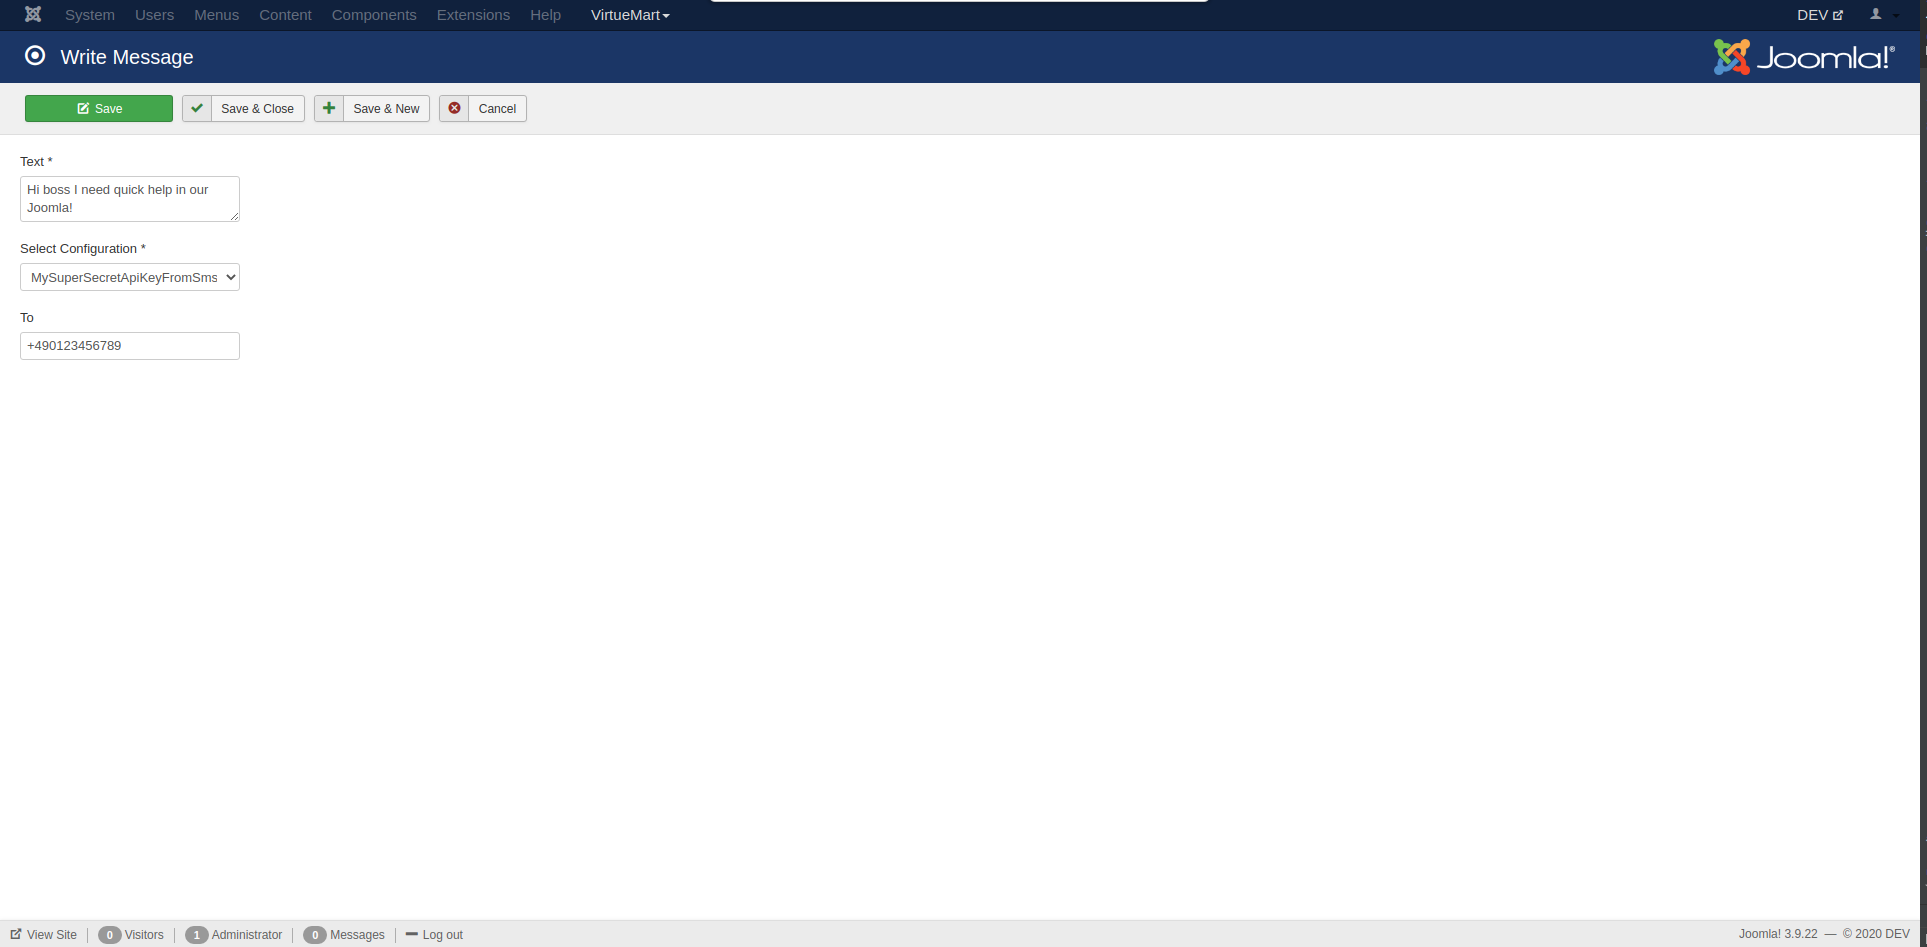
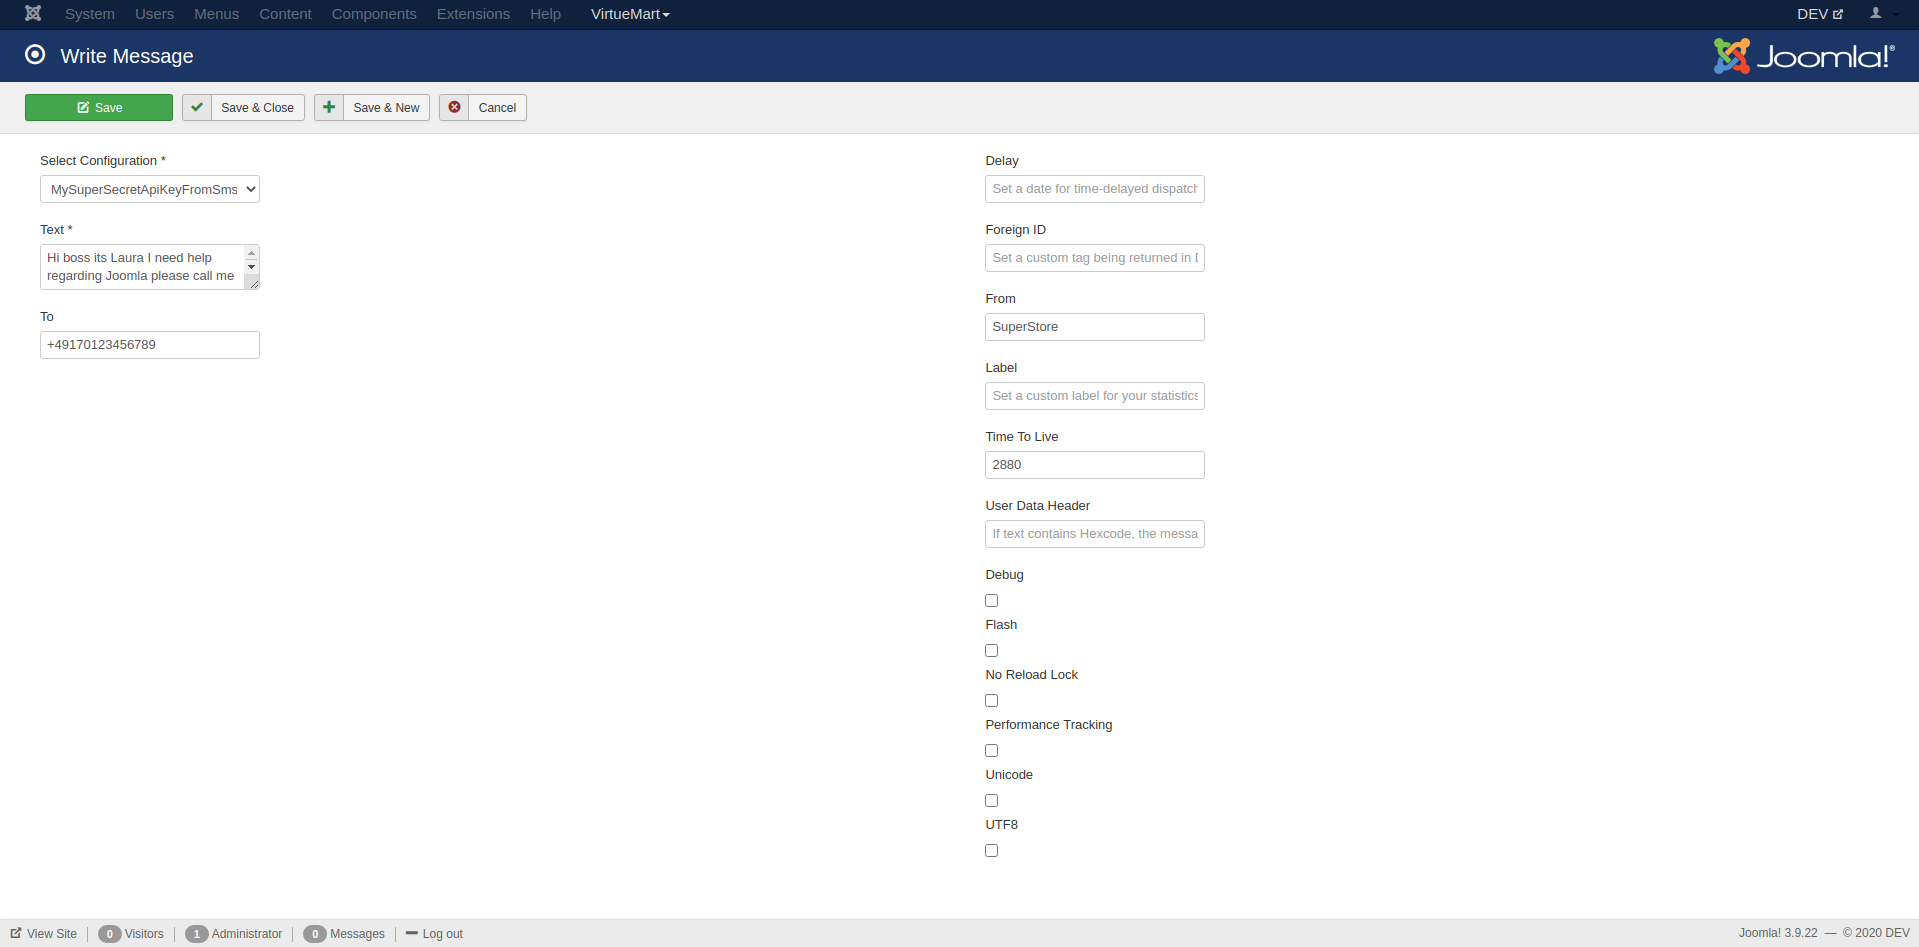
add remaining sms options

diff --git a/src/models/message.php b/src/models/message.php
@@ -62,7 +62,8 @@ class Sms77apiModelMessage extends AdminModel {
      */
     protected function loadFormData() {
         // Check the session for previously entered form data.
-        $data = Factory::getApplication()->getUserState('com_sms77api.edit.message.data', []);
+        $data = Factory::getApplication()
+            ->getUserState('com_sms77api.edit.message.data', []);
 
         if (empty($data)) {
             $data = $this->getItem();
@@ -71,38 +72,60 @@ class Sms77apiModelMessage extends AdminModel {
         return $data;
     }
 
-    private function _toNullableId($key, array $data) {
-        return array_key_exists($key, $data) && '' !== $data[$key]
-            ? (int)$data[$key] : null;
-    }
+    private function _handleVirtueMart(array &$to, array &$modelCfg, array &$data) {
+        $addRecipient = static function ($user) use (&$to) {
+            if (!is_object($user)) {
+                return;
+            }
 
-    private function _getShoppingGroupUsers($shopperGroupId) {
-        $sql = 'SELECT `virtuemart_user_id` FROM `#__virtuemart_vmuser_shoppergroups`';
-        $sql .= " WHERE `virtuemart_shoppergroup_id` = {$shopperGroupId}";
-        return array_keys(JFactory::getDbo()->setQuery($sql)->loadRowList(0));
-    }
+            //phone_2 is mobile in the frontend
+            $phone = utf8_strlen($user->phone_2) ? $user->phone_2 : $user->phone_1;
 
-    private function _toPhone($user, &$to) {
-        if (!is_object($user)) {
-            return null;
+            if (utf8_strlen($phone)) {
+                $to[] = $phone;
+            }
+        };
+
+        $getDriver = static function ($countryId, $sql) {
+            if ($countryId) {
+                $sql .= " AND virtuemart_country_id = $countryId";
+            }
+
+            return JFactory::getDbo()->setQuery($countryId, $sql);
+        };
+
+        $pickProperty = static function ($key) use (&$data) {
+            $value = array_key_exists($key, $data) && '' !== $data[$key]
+                ? (int)$data[$key] : null;
+
+            unset($data[$key]);
+
+            return $value;
+        };
+
+        if (!ConfigurationHelper::hasVirtueMart()) {
+            return;
         }
 
-        //phone_2 is mobile in the frontend
-        $phone = utf8_strlen($user->phone_2) ? $user->phone_2 : $user->phone_1;
+        $modelCfg['countryId'] = $pickProperty('country_id');
+        $modelCfg['shopperGroupId'] = $pickProperty('shopper_group_id');
 
-        if (utf8_strlen($phone)) {
-            $to[] = $phone;
+        $sql = 'SELECT * FROM #__virtuemart_userinfos';
+        $sql .= ' WHERE address_type = "BT" AND locked_by = 0';
+        if ($modelCfg['shopperGroupId']) {
+            $sql2 = 'SELECT virtuemart_user_id FROM #__virtuemart_vmuser_shoppergroups ';
+            $sql2 .= 'WHERE virtuemart_shoppergroup_id = ' . $modelCfg['shopperGroupId'];
+            foreach (array_keys(JFactory::getDbo()->setQuery($sql2)->loadRowList(0))
+                     as $userId) {
+                $sql .= " AND virtuemart_user_id = $userId";
+                $addRecipient($getDriver($modelCfg['countryId'], $sql)->loadObject());
+            }
+        } elseif ($modelCfg['countryId']) {
+            foreach ($getDriver($modelCfg['countryId'], $sql)->loadObjectList()
+                     as $user) {
+                $addRecipient($user);
+            }
         }
-
-        return $phone;
-    }
-
-    private function _whereCountryId($countryId, $sql) {
-        if ($countryId) {
-            $sql .= " AND virtuemart_country_id = $countryId";
-        }
-
-        return $sql;
     }
 
     /**
@@ -113,28 +136,12 @@ class Sms77apiModelMessage extends AdminModel {
      * @since   1.0.0
      */
     public function save($data) {
-        $text = $data['text'];
         $to = array_key_exists('to', $data) ? [$data['to']] : [];
         $apiKey = $this->configHelper->byId($data['configuration'])->api_key;
-        $shopperGroupId = $this->_toNullableId('shopper_group_id', $data);
-        $countryId = $this->_toNullableId('country_id', $data);
-        unset($data['configuration'], $data['shopper_group_id'], $data['country_id']);
-        $sql = 'SELECT * FROM #__virtuemart_userinfos WHERE address_type = "BT" AND locked_by = 0';
+        $saveConfig = ['apiKey' => $apiKey,];
+        unset($data['configuration']);
 
-        if ($shopperGroupId) {
-            foreach ($this->_getShoppingGroupUsers($shopperGroupId) as $userId) {
-                $sql .= " AND virtuemart_user_id = $userId";
-                $sql = $this->_whereCountryId($countryId, $sql);
-                $this->_toPhone(JFactory::getDbo()->setQuery($sql)->loadObject(), $to);
-            }
-        } elseif ($countryId) {
-            foreach (
-                JFactory::getDbo()
-                    ->setQuery($this->_whereCountryId($countryId, $sql))->loadObjectList()
-                as $user) {
-                $this->_toPhone($user, $to);
-            }
-        }
+        $this->_handleVirtueMart($to, $saveConfig, $data);
 
         $to = implode(',', $to);
 
@@ -145,13 +152,9 @@ class Sms77apiModelMessage extends AdminModel {
         }
 
         return parent::save([
-            'config' => json_encode([
-                'apiKey' => $apiKey,
-                'countryId' => $countryId,
-                'shopperGroupId' => $shopperGroupId,
-            ]),
+            'config' => json_encode($saveConfig),
             'response' => json_encode((new Sms77apiHelper($apiKey))
-                ->sms(array_merge($data, compact('text', 'to')))),
+                ->sms(array_merge($data, ['to' => $to]))),
         ]);
     }
 }

diff --git a/src/views/message/tmpl/edit.php b/src/views/message/tmpl/edit.php
@@ -41,49 +41,79 @@ Factory::getDocument()->addScriptDeclaration(<<<JS
         });
 JS
 );
-$hasVirtueMart = JComponentHelper::isEnabled('com_virtuemart');
-$fields = ['text', 'configuration', 'to', 'from', 'foreign_id', 'label'];
-if ($hasVirtueMart) {
-    $fields[] = 'shopper_group_id';
-
-    if (!class_exists('VmConfig')) {
-        require JPATH_ADMINISTRATOR . '/components/com_virtuemart/helpers/config.php';
-    }
-
-    VmConfig::loadConfig();
-
-    $lang = JFactory::getLanguage();
-    $lang->load('com_virtuemart', JPATH_ADMINISTRATOR . '/components/com_virtuemart');
-    $lang->load('com_virtuemart_shoppers', JPATH_ROOT . '/components/com_virtuemart');
-}
 ?>
-<form action="<?php echo Route::_("index.php?option=com_sms77api&layout=edit&id={$this->message->id}") ?>"
-      method="post" name="adminForm" enctype="multipart/form-data" id="adminForm"
-      class="form-validate">
+<form
+        action="<?php echo Route::_("index.php?option=com_sms77api&layout=edit&id={$this->message->id}") ?>"
+        class="form-validate"
+        enctype="multipart/form-data"
+        id="adminForm"
+        method="post"
+        name="adminForm"
+>
     <input type="hidden" name="task" value=""/>
 
-    <?php
-    foreach ($fields as $field) {
-        echo $this->form->renderField($field);
-    }
+    <div class="container-fluid">
+        <div class="row-fluid">
+            <div class="span6">
+                <?php echo $this->form->renderField('configuration')
+                    . $this->form->renderField('text')
+                    . $this->form->renderField('to');
 
-    if ($hasVirtueMart) {
-        ?>
-        <div class="control-group">
-            <div class="control-label">
-                <label id="jform_country_id-lbl" for="jform_country_id">
-                    <?php echo VmText::_('COM_VIRTUEMART_COUNTRY') ?></label>
+                if (JComponentHelper::isEnabled('com_virtuemart')) {
+                    if (!class_exists('VmConfig')) {
+                        require JPATH_ADMINISTRATOR
+                            . '/components/com_virtuemart/helpers/config.php';
+                    }
+
+                    VmConfig::loadConfig();
+
+                    $lang = JFactory::getLanguage();
+                    $lang->load('com_virtuemart',
+                        JPATH_ADMINISTRATOR . '/components/com_virtuemart');
+                    $lang->load('com_virtuemart_shoppers',
+                        JPATH_ROOT . '/components/com_virtuemart');
+
+                    echo $this->form->renderField('shopper_group_id');
+                    ?>
+                    <div class="control-group">
+                        <div class="control-label">
+                            <label id="jform_country_id-lbl" for="jform_country_id">
+                                <?php echo VmText::_('COM_VIRTUEMART_COUNTRY') ?>
+                            </label>
+                        </div>
+
+                        <div class="controls">
+                            <?php echo ShopFunctionsF::renderCountryList(
+                                0,
+                                false, [],
+                                '',
+                                0,
+                                'jform_country_id',
+                                'jform[country_id]') ?>
+                        </div>
+                    </div>
+                    <?php
+                }
+                echo $this->form->getInput('id') . HTMLHelper::_('form.token');
+                ?>
             </div>
 
-            <div class="controls">
-                <?php echo ShopFunctionsF::renderCountryList(
-                    0, false, [], '', 0, 'jform_country_id', 'jform[country_id]') ?>
+            <div class="span6">
+                <?php echo $this->form->renderField('delay')
+                    . $this->form->renderField('foreign_id')
+                    . $this->form->renderField('from')
+                    . $this->form->renderField('label')
+                    . $this->form->renderField('ttl')
+                    . $this->form->renderField('udh')
+
+                    . $this->form->renderField('debug')
+                    . $this->form->renderField('flash')
+                    . $this->form->renderField('no_reload')
+                    . $this->form->renderField('performance_tracking')
+                    . $this->form->renderField('unicode')
+                    . $this->form->renderField('utf8');
+                ?>
             </div>
         </div>
-        <?php
-    }
-
-    echo $this->form->getInput('id');
-    echo HTMLHelper::_('form.token');
-    ?>
+    </div>
 </form>

diff --git a/src/helpers/configuration.php b/src/helpers/configuration.php
@@ -27,7 +27,9 @@ class ConfigurationHelper {
      * @since   1.0.0
      */
     public function addSubmenu($vName) {
-        HTMLHelper::_('sidebar.addEntry', Text::_('COM_SMS77API'), 'index.php?option=com_sms77api&view=configurations', $vName === 'configurations');
+        HTMLHelper::_('sidebar.addEntry', Text::_('COM_SMS77API'),
+            'index.php?option=com_sms77api&view=configurations',
+            $vName === 'configurations');
     }
 
     public function table() {
@@ -65,7 +67,8 @@ class ConfigurationHelper {
 
         $table = $this->table();
         $db = $table->getDbo();
-        $db->setQuery($db->getQuery(true)->select('*')->from(self::tableName));
+        $db->setQuery(
+            $db->getQuery(true)->select('*')->from(self::tableName));
 
         foreach ($db->loadObjectList() as $configuration) {
             $configuration->published = 0;
@@ -73,5 +76,9 @@ class ConfigurationHelper {
         }
 
         return true === array_unique($bools)[0];
+    }
+
+    public static function hasVirtueMart() {
+        return JComponentHelper::isEnabled('com_virtuemart');
     }
 }
